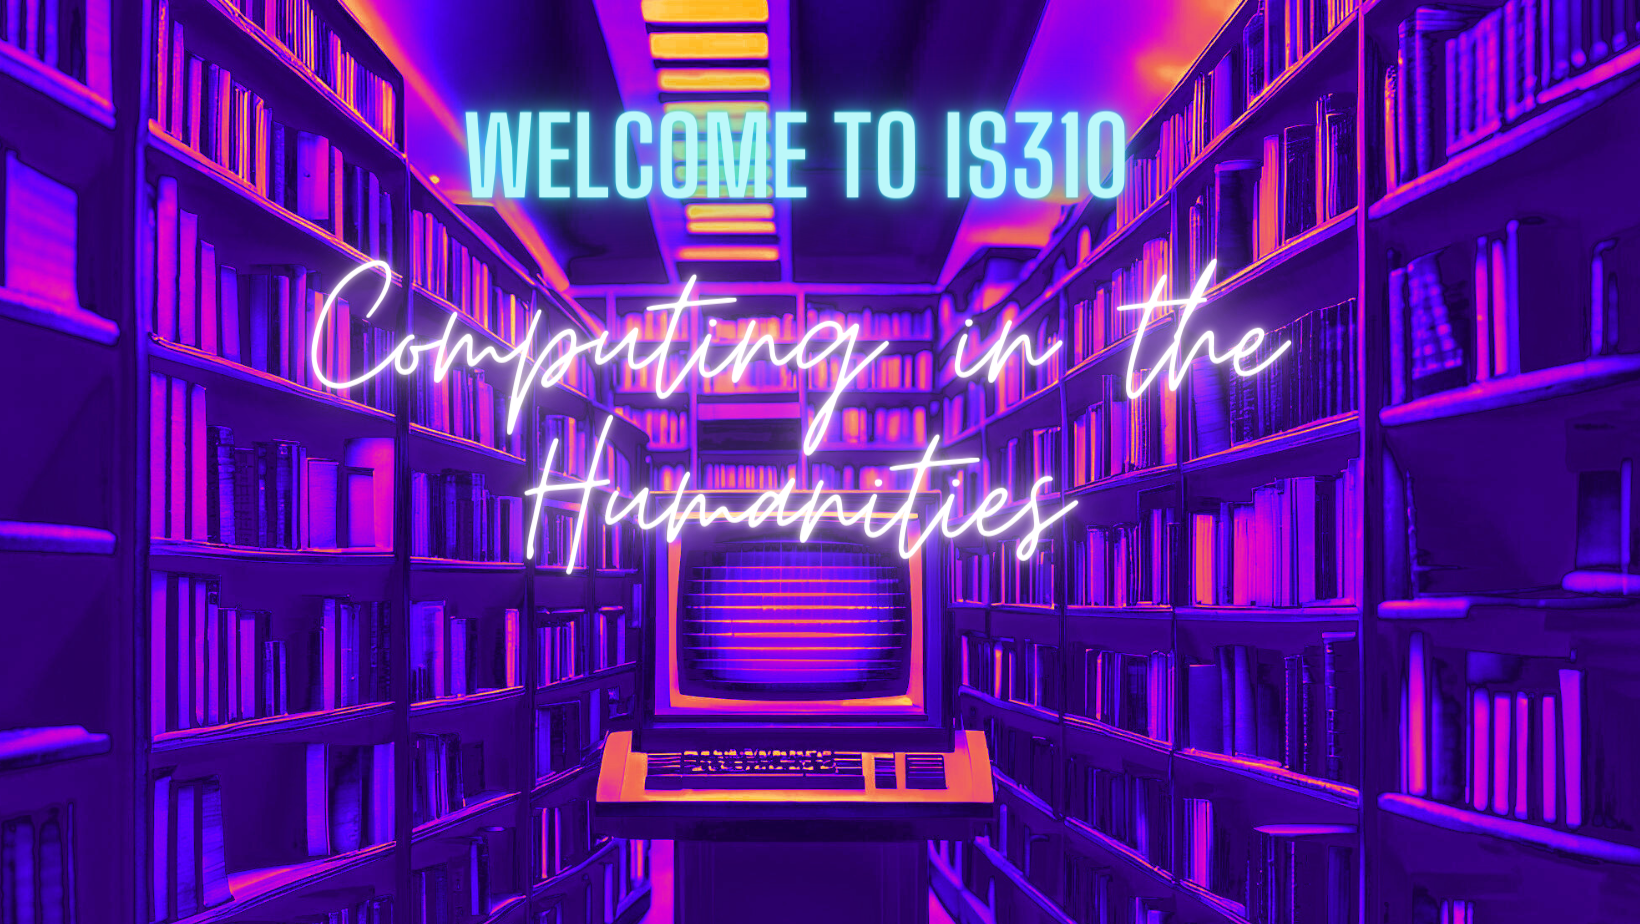
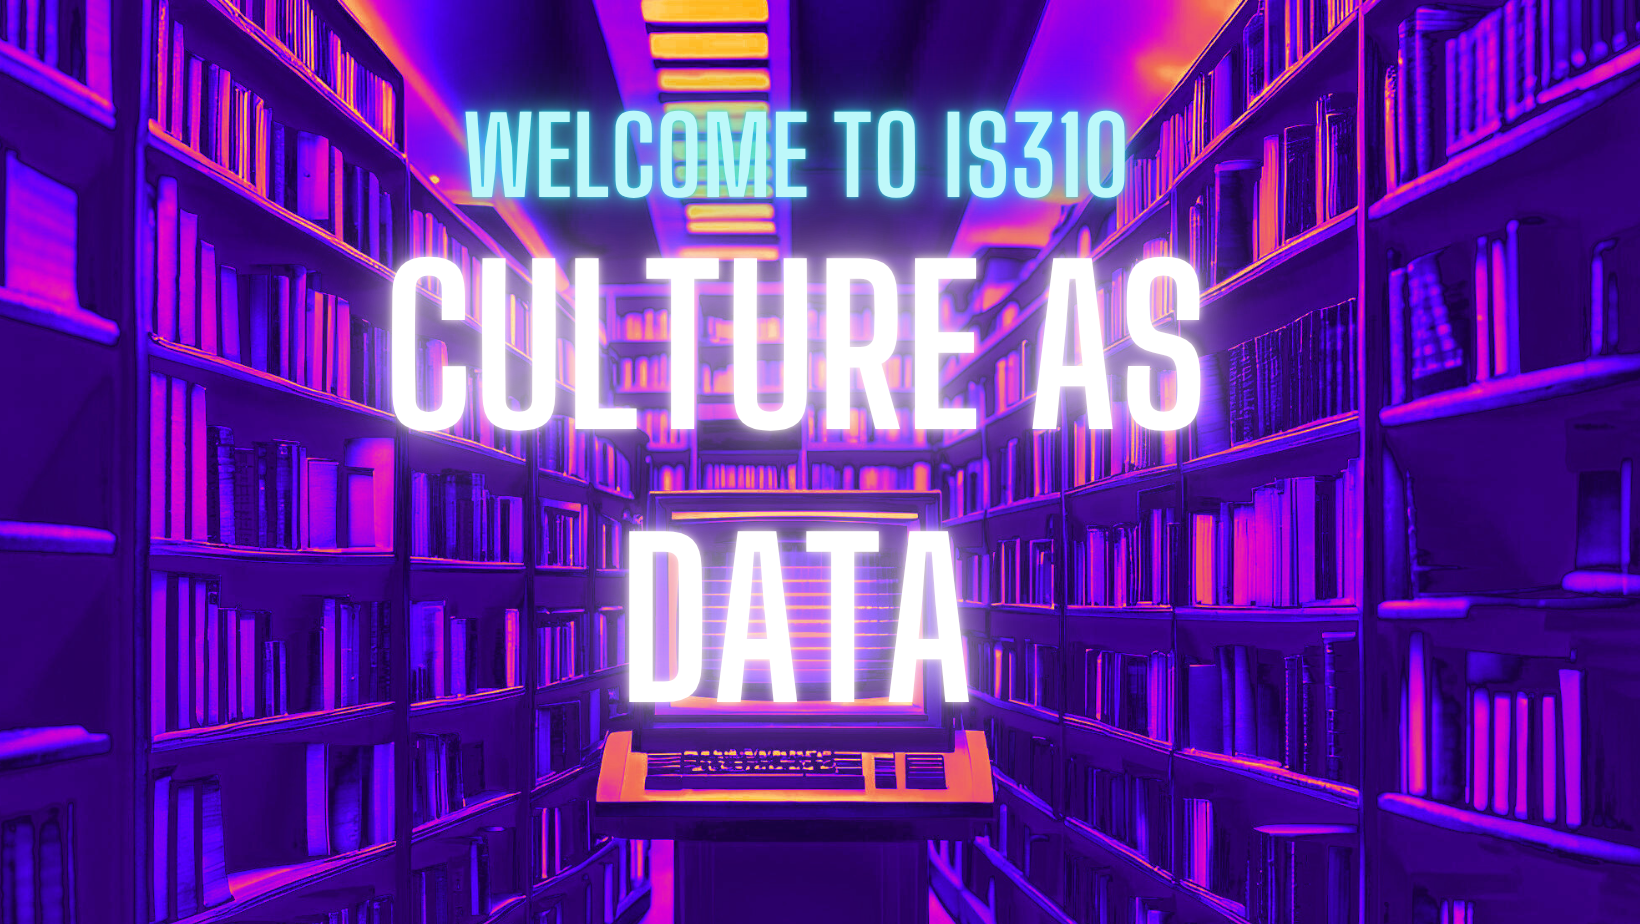
updates

Changed region(s): [[0.1555, 0.2121, 0.8085, 0.8182]]

diff --git a/docs/materials/augmenting-preserving-cad/04-advanced-computational-methods.html b/docs/materials/augmenting-preserving-cad/04-advanced-computational-methods.html
@@ -520,27 +520,27 @@ Dataset Available on Canvas
 <span id="cb2-9"><a href="#cb2-9" aria-hidden="true" tabindex="-1"></a>    .rename(columns<span class="op">=</span>{<span class="st">'index'</span>: <span class="st">'entity_type'</span>, <span class="dv">0</span>: <span class="st">'total_count'</span>})</span>
 <span id="cb2-10"><a href="#cb2-10" aria-hidden="true" tabindex="-1"></a>)</span>
 <span id="cb2-11"><a href="#cb2-11" aria-hidden="true" tabindex="-1"></a>totals[<span class="st">'entity_type'</span>] <span class="op">=</span> totals[<span class="st">'entity_type'</span>].<span class="bu">str</span>.replace(<span class="st">'_count'</span>, <span class="st">''</span>).<span class="bu">str</span>.upper()</span></code><button title="Copy to Clipboard" class="code-copy-button"><i class="bi"></i></button></pre></div>
-<div id="de70bd84" class="cell" data-execution_count="1">
+<div id="21da705b" class="cell" data-execution_count="1">
 <div class="cell-output cell-output-display" data-execution_count="1">
 
 <style>
-  #altair-viz-9d6b5e20809149dc9a04e1606aa2f328.vega-embed {
+  #altair-viz-60deeff654cb441c8cafecdc0a7cfc6d.vega-embed {
     width: 100%;
     display: flex;
   }
 
-  #altair-viz-9d6b5e20809149dc9a04e1606aa2f328.vega-embed details,
-  #altair-viz-9d6b5e20809149dc9a04e1606aa2f328.vega-embed details summary {
+  #altair-viz-60deeff654cb441c8cafecdc0a7cfc6d.vega-embed details,
+  #altair-viz-60deeff654cb441c8cafecdc0a7cfc6d.vega-embed details summary {
     position: relative;
   }
 </style>
-<div id="altair-viz-9d6b5e20809149dc9a04e1606aa2f328"></div>
+<div id="altair-viz-60deeff654cb441c8cafecdc0a7cfc6d"></div>
 <script type="text/javascript">
   var VEGA_DEBUG = (typeof VEGA_DEBUG == "undefined") ? {} : VEGA_DEBUG;
   (function(spec, embedOpt){
     let outputDiv = document.currentScript.previousElementSibling;
-    if (outputDiv.id !== "altair-viz-9d6b5e20809149dc9a04e1606aa2f328") {
-      outputDiv = document.getElementById("altair-viz-9d6b5e20809149dc9a04e1606aa2f328");
+    if (outputDiv.id !== "altair-viz-60deeff654cb441c8cafecdc0a7cfc6d") {
+      outputDiv = document.getElementById("altair-viz-60deeff654cb441c8cafecdc0a7cfc6d");
     }
 
     const paths = {
@@ -612,7 +612,7 @@ Dataset Available on Canvas
 <span id="cb3-12"><a href="#cb3-12" aria-hidden="true" tabindex="-1"></a>    <span class="kw">lambda</span> x: (x <span class="op">-</span> x.<span class="bu">min</span>()) <span class="op">/</span> (x.<span class="bu">max</span>() <span class="op">-</span> x.<span class="bu">min</span>() <span class="op">+</span> <span class="fl">1e-9</span>)</span>
 <span id="cb3-13"><a href="#cb3-13" aria-hidden="true" tabindex="-1"></a>)</span></code><button title="Copy to Clipboard" class="code-copy-button"><i class="bi"></i></button></pre></div>
 <p>Notice here though that I am normalizing the counts within each entity type, not across the whole dataset. This is because <code>PERSON</code> counts are on a completely different scale than <code>EVENT</code> counts, and I want to be able to compare genres within each entity type without one dominating the visualization.</p>
-<div id="f9942701" class="cell" data-execution_count="2">
+<div id="4fc26707" class="cell" data-execution_count="2">
 <div class="sourceCode cell-code" id="cb4"><pre class="sourceCode python code-with-copy"><code class="sourceCode python"><span id="cb4-1"><a href="#cb4-1" aria-hidden="true" tabindex="-1"></a>genre_means <span class="op">=</span> pd.read_csv(<span class="st">'../../assets/files/combined_novels_genre_entity_means.csv'</span>)</span>
 <span id="cb4-2"><a href="#cb4-2" aria-hidden="true" tabindex="-1"></a></span>
 <span id="cb4-3"><a href="#cb4-3" aria-hidden="true" tabindex="-1"></a>stacked_bar <span class="op">=</span> alt.Chart(genre_means).mark_bar().encode(</span>
@@ -634,23 +634,23 @@ Dataset Available on Canvas
 <div class="cell-output cell-output-display" data-execution_count="2">
 
 <style>
-  #altair-viz-d34b4b795df44d44a742c1cc624e5d60.vega-embed {
+  #altair-viz-de77b48899b6483ab80f2dd94acc5bf4.vega-embed {
     width: 100%;
     display: flex;
   }
 
-  #altair-viz-d34b4b795df44d44a742c1cc624e5d60.vega-embed details,
-  #altair-viz-d34b4b795df44d44a742c1cc624e5d60.vega-embed details summary {
+  #altair-viz-de77b48899b6483ab80f2dd94acc5bf4.vega-embed details,
+  #altair-viz-de77b48899b6483ab80f2dd94acc5bf4.vega-embed details summary {
     position: relative;
   }
 </style>
-<div id="altair-viz-d34b4b795df44d44a742c1cc624e5d60"></div>
+<div id="altair-viz-de77b48899b6483ab80f2dd94acc5bf4"></div>
 <script type="text/javascript">
   var VEGA_DEBUG = (typeof VEGA_DEBUG == "undefined") ? {} : VEGA_DEBUG;
   (function(spec, embedOpt){
     let outputDiv = document.currentScript.previousElementSibling;
-    if (outputDiv.id !== "altair-viz-d34b4b795df44d44a742c1cc624e5d60") {
-      outputDiv = document.getElementById("altair-viz-d34b4b795df44d44a742c1cc624e5d60");
+    if (outputDiv.id !== "altair-viz-de77b48899b6483ab80f2dd94acc5bf4") {
+      outputDiv = document.getElementById("altair-viz-de77b48899b6483ab80f2dd94acc5bf4");
     }
 
     const paths = {
@@ -703,7 +703,7 @@ Dataset Available on Canvas
 </div>
 </div>
 <p>This graph gives us a much better sense of how different genres use different kinds of entities. But it is still tricky to see the relationship. A heatmap would be a much better option.</p>
-<div id="894aa8af" class="cell" data-execution_count="3">
+<div id="a1f9aaeb" class="cell" data-execution_count="3">
 <div class="sourceCode cell-code" id="cb5"><pre class="sourceCode python code-with-copy"><code class="sourceCode python"><span id="cb5-1"><a href="#cb5-1" aria-hidden="true" tabindex="-1"></a>heatmap <span class="op">=</span> alt.Chart(genre_means).mark_rect().encode(</span>
 <span id="cb5-2"><a href="#cb5-2" aria-hidden="true" tabindex="-1"></a>    x<span class="op">=</span>alt.X(<span class="st">'entity_type:N'</span>, title<span class="op">=</span><span class="st">'Entity Type'</span>),</span>
 <span id="cb5-3"><a href="#cb5-3" aria-hidden="true" tabindex="-1"></a>    y<span class="op">=</span>alt.Y(<span class="st">'genre:N'</span>, title<span class="op">=</span><span class="st">'Genre'</span>, sort<span class="op">=</span><span class="st">'-x'</span>),</span>
@@ -726,23 +726,23 @@ Dataset Available on Canvas
 <div class="cell-output cell-output-display" data-execution_count="3">
 
 <style>
-  #altair-viz-b58f257d02eb4f3692b8d15537d59b93.vega-embed {
+  #altair-viz-d3d71b30d8e9450cb05bca6ed6d7da34.vega-embed {
     width: 100%;
     display: flex;
   }
 
-  #altair-viz-b58f257d02eb4f3692b8d15537d59b93.vega-embed details,
-  #altair-viz-b58f257d02eb4f3692b8d15537d59b93.vega-embed details summary {
+  #altair-viz-d3d71b30d8e9450cb05bca6ed6d7da34.vega-embed details,
+  #altair-viz-d3d71b30d8e9450cb05bca6ed6d7da34.vega-embed details summary {
     position: relative;
   }
 </style>
-<div id="altair-viz-b58f257d02eb4f3692b8d15537d59b93"></div>
+<div id="altair-viz-d3d71b30d8e9450cb05bca6ed6d7da34"></div>
 <script type="text/javascript">
   var VEGA_DEBUG = (typeof VEGA_DEBUG == "undefined") ? {} : VEGA_DEBUG;
   (function(spec, embedOpt){
     let outputDiv = document.currentScript.previousElementSibling;
-    if (outputDiv.id !== "altair-viz-b58f257d02eb4f3692b8d15537d59b93") {
-      outputDiv = document.getElementById("altair-viz-b58f257d02eb4f3692b8d15537d59b93");
+    if (outputDiv.id !== "altair-viz-d3d71b30d8e9450cb05bca6ed6d7da34") {
+      outputDiv = document.getElementById("altair-viz-d3d71b30d8e9450cb05bca6ed6d7da34");
     }
 
     const paths = {
@@ -1058,7 +1058,7 @@ Note
 <span id="cb13-26"><a href="#cb13-26" aria-hidden="true" tabindex="-1"></a></span>
 <span id="cb13-27"><a href="#cb13-27" aria-hidden="true" tabindex="-1"></a>fingerprint_df <span class="op">=</span> pd.DataFrame(fingerprint_rows)</span></code><button title="Copy to Clipboard" class="code-copy-button"><i class="bi"></i></button></pre></div>
 <p>Which gives us the following genre vocabulary fingerprints:</p>
-<div id="da420b3e" class="cell" data-execution_count="4">
+<div id="1230a17c" class="cell" data-execution_count="4">
 <div class="sourceCode cell-code" id="cb14"><pre class="sourceCode python code-with-copy"><code class="sourceCode python"><span id="cb14-1"><a href="#cb14-1" aria-hidden="true" tabindex="-1"></a>fingerprint_df <span class="op">=</span> pd.read_csv(<span class="st">'../../assets/files/combined_novels_genre_fingerprint.csv'</span>)</span>
 <span id="cb14-2"><a href="#cb14-2" aria-hidden="true" tabindex="-1"></a></span>
 <span id="cb14-3"><a href="#cb14-3" aria-hidden="true" tabindex="-1"></a>alt.Chart(fingerprint_df).mark_bar().encode(</span>
@@ -1071,23 +1071,23 @@ Note
 <div class="cell-output cell-output-display" data-execution_count="4">
 
 <style>
-  #altair-viz-d9eb7033d807403fb02a28d3aae185d5.vega-embed {
+  #altair-viz-d2eac1dc81d742b89014b9fa85a3e4a3.vega-embed {
     width: 100%;
     display: flex;
   }
 
-  #altair-viz-d9eb7033d807403fb02a28d3aae185d5.vega-embed details,
-  #altair-viz-d9eb7033d807403fb02a28d3aae185d5.vega-embed details summary {
+  #altair-viz-d2eac1dc81d742b89014b9fa85a3e4a3.vega-embed details,
+  #altair-viz-d2eac1dc81d742b89014b9fa85a3e4a3.vega-embed details summary {
     position: relative;
   }
 </style>
-<div id="altair-viz-d9eb7033d807403fb02a28d3aae185d5"></div>
+<div id="altair-viz-d2eac1dc81d742b89014b9fa85a3e4a3"></div>
 <script type="text/javascript">
   var VEGA_DEBUG = (typeof VEGA_DEBUG == "undefined") ? {} : VEGA_DEBUG;
   (function(spec, embedOpt){
     let outputDiv = document.currentScript.previousElementSibling;
-    if (outputDiv.id !== "altair-viz-d9eb7033d807403fb02a28d3aae185d5") {
-      outputDiv = document.getElementById("altair-viz-d9eb7033d807403fb02a28d3aae185d5");
+    if (outputDiv.id !== "altair-viz-d2eac1dc81d742b89014b9fa85a3e4a3") {
+      outputDiv = document.getElementById("altair-viz-d2eac1dc81d742b89014b9fa85a3e4a3");
     }
 
     const paths = {
@@ -1198,7 +1198,7 @@ Note
 <span id="cb15-55"><a href="#cb15-55" aria-hidden="true" tabindex="-1"></a><span class="bu">print</span>(<span class="ss">f"Matrix shape: </span><span class="sc">{</span>tfidf_matrix<span class="sc">.</span>shape<span class="sc">}</span><span class="ss">"</span>)</span>
 <span id="cb15-56"><a href="#cb15-56" aria-hidden="true" tabindex="-1"></a><span class="bu">print</span>(<span class="ss">f"  </span><span class="sc">{</span>tfidf_matrix<span class="sc">.</span>shape[<span class="dv">0</span>]<span class="sc">}</span><span class="ss"> documents × </span><span class="sc">{</span>tfidf_matrix<span class="sc">.</span>shape[<span class="dv">1</span>]<span class="sc">}</span><span class="ss"> terms"</span>)</span></code><button title="Copy to Clipboard" class="code-copy-button"><i class="bi"></i></button></pre></div>
 <p>Then if we visualize the genre centroids again, we should see fewer character names and more genre-distinctive terms:</p>
-<div id="0ae99452" class="cell" data-execution_count="5">
+<div id="65c2393a" class="cell" data-execution_count="5">
 <div class="sourceCode cell-code" id="cb16"><pre class="sourceCode python code-with-copy"><code class="sourceCode python"><span id="cb16-1"><a href="#cb16-1" aria-hidden="true" tabindex="-1"></a>fingerprint_df <span class="op">=</span> pd.read_csv(<span class="st">'../../assets/files/combined_novels_genre_fingerprint_without_entities.csv'</span>)</span>
 <span id="cb16-2"><a href="#cb16-2" aria-hidden="true" tabindex="-1"></a><span class="co"># Visualize the updated genre centroids</span></span>
 <span id="cb16-3"><a href="#cb16-3" aria-hidden="true" tabindex="-1"></a>alt.Chart(fingerprint_df).mark_bar().encode(</span>
@@ -1211,23 +1211,23 @@ Note
 <div class="cell-output cell-output-display" data-execution_count="5">
 
 <style>
-  #altair-viz-0b531658a2674c07bb2bf4acf9426761.vega-embed {
+  #altair-viz-7597896ddb774668b644f86c46c215e6.vega-embed {
     width: 100%;
     display: flex;
   }
 
-  #altair-viz-0b531658a2674c07bb2bf4acf9426761.vega-embed details,
-  #altair-viz-0b531658a2674c07bb2bf4acf9426761.vega-embed details summary {
+  #altair-viz-7597896ddb774668b644f86c46c215e6.vega-embed details,
+  #altair-viz-7597896ddb774668b644f86c46c215e6.vega-embed details summary {
     position: relative;
   }
 </style>
-<div id="altair-viz-0b531658a2674c07bb2bf4acf9426761"></div>
+<div id="altair-viz-7597896ddb774668b644f86c46c215e6"></div>
 <script type="text/javascript">
   var VEGA_DEBUG = (typeof VEGA_DEBUG == "undefined") ? {} : VEGA_DEBUG;
   (function(spec, embedOpt){
     let outputDiv = document.currentScript.previousElementSibling;
-    if (outputDiv.id !== "altair-viz-0b531658a2674c07bb2bf4acf9426761") {
-      outputDiv = document.getElementById("altair-viz-0b531658a2674c07bb2bf4acf9426761");
+    if (outputDiv.id !== "altair-viz-7597896ddb774668b644f86c46c215e6") {
+      outputDiv = document.getElementById("altair-viz-7597896ddb774668b644f86c46c215e6");
     }
 
     const paths = {
@@ -1457,7 +1457,7 @@ Note
 <span id="cb23-19"><a href="#cb23-19" aria-hidden="true" tabindex="-1"></a>    <span class="kw">lambda</span> x: (x <span class="op">-</span> x.<span class="bu">min</span>()) <span class="op">/</span> (x.<span class="bu">max</span>() <span class="op">-</span> x.<span class="bu">min</span>() <span class="op">+</span> <span class="fl">1e-9</span>)</span>
 <span id="cb23-20"><a href="#cb23-20" aria-hidden="true" tabindex="-1"></a>)</span></code><button title="Copy to Clipboard" class="code-copy-button"><i class="bi"></i></button></pre></div>
 <p>This will give us a dataframe where each row is a genre-topic pair with the mean topic weight for that genre, normalized to a 0–1 scale within each topic. Now we can visualize this as a heatmap:</p>
-<div id="08d14a58" class="cell" data-execution_count="6">
+<div id="f3dca5e0" class="cell" data-execution_count="6">
 <div class="sourceCode cell-code" id="cb24"><pre class="sourceCode python code-with-copy"><code class="sourceCode python"><span id="cb24-1"><a href="#cb24-1" aria-hidden="true" tabindex="-1"></a>topic_genre_means <span class="op">=</span> pd.read_csv(<span class="st">'../../assets/files/combined_novels_topic_genre_means.csv'</span>)</span>
 <span id="cb24-2"><a href="#cb24-2" aria-hidden="true" tabindex="-1"></a>alt.Chart(topic_genre_means).mark_rect().encode(</span>
 <span id="cb24-3"><a href="#cb24-3" aria-hidden="true" tabindex="-1"></a>    x<span class="op">=</span>alt.X(<span class="st">'topic:N'</span>, title<span class="op">=</span><span class="st">'LDA Topic'</span>),</span>
@@ -1479,23 +1479,23 @@ Note
 <div class="cell-output cell-output-display" data-execution_count="6">
 
 <style>
-  #altair-viz-11cee539a4804f1b86fe97e1f256509f.vega-embed {
+  #altair-viz-d4e9b8fc90cf41559e3b909121912213.vega-embed {
     width: 100%;
     display: flex;
   }
 
-  #altair-viz-11cee539a4804f1b86fe97e1f256509f.vega-embed details,
-  #altair-viz-11cee539a4804f1b86fe97e1f256509f.vega-embed details summary {
+  #altair-viz-d4e9b8fc90cf41559e3b909121912213.vega-embed details,
+  #altair-viz-d4e9b8fc90cf41559e3b909121912213.vega-embed details summary {
     position: relative;
   }
 </style>
-<div id="altair-viz-11cee539a4804f1b86fe97e1f256509f"></div>
+<div id="altair-viz-d4e9b8fc90cf41559e3b909121912213"></div>
 <script type="text/javascript">
   var VEGA_DEBUG = (typeof VEGA_DEBUG == "undefined") ? {} : VEGA_DEBUG;
   (function(spec, embedOpt){
     let outputDiv = document.currentScript.previousElementSibling;
-    if (outputDiv.id !== "altair-viz-11cee539a4804f1b86fe97e1f256509f") {
-      outputDiv = document.getElementById("altair-viz-11cee539a4804f1b86fe97e1f256509f");
+    if (outputDiv.id !== "altair-viz-d4e9b8fc90cf41559e3b909121912213") {
+      outputDiv = document.getElementById("altair-viz-d4e9b8fc90cf41559e3b909121912213");
     }
 
     const paths = {
